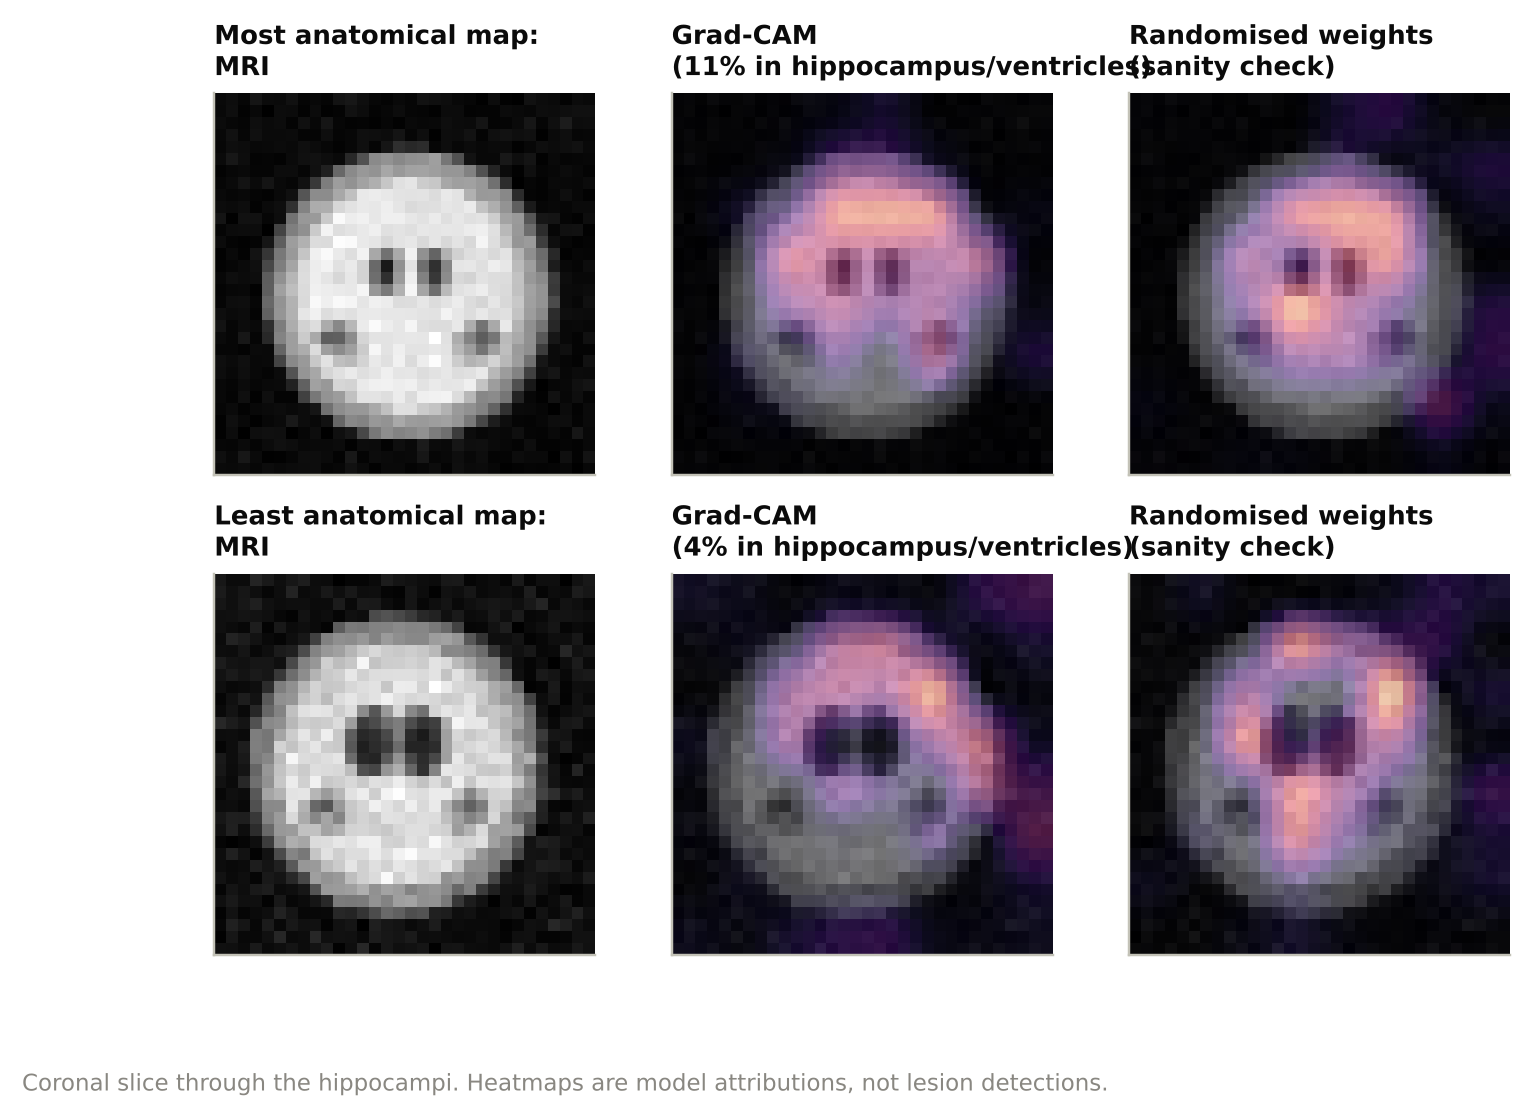
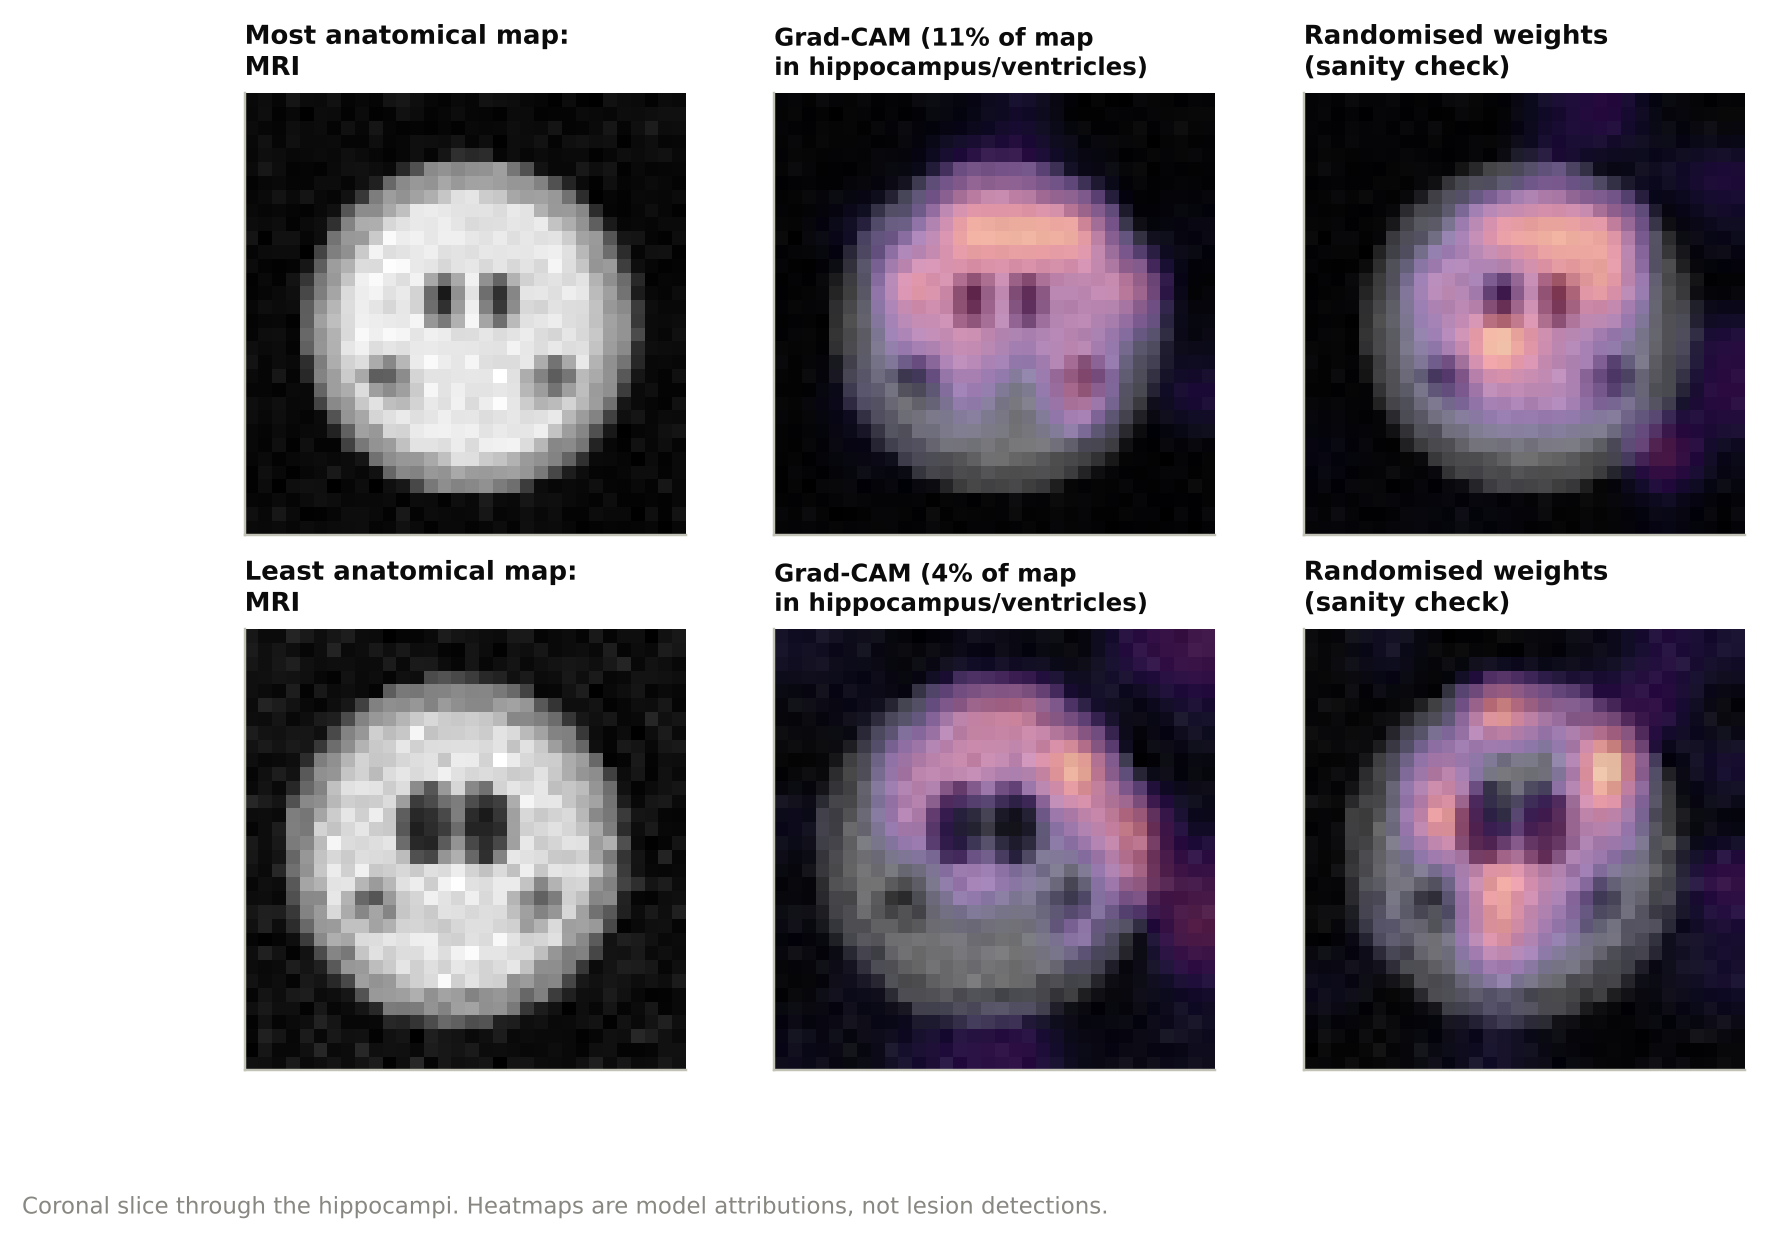
Explain Stage 2 and final results in the plain-English guide; update README layout; tidy Grad-CAM figure
Claude-Session: https://claude.ai/code/session_01LsYhwypG9oCMMA5mwPbUnf

diff --git a/scripts/05_make_figures.py b/scripts/05_make_figures.py
@@ -345,14 +345,14 @@ def fig_gradcam():
     d = np.load(p)
     sl = 15                                                   # coronal slice through hippocampi and ventricles
     titles = ["Most anatomical map", "Least anatomical map"]
-    fig, axes = plt.subplots(2, 3, figsize=(7.6, 5.2))
+    fig, axes = plt.subplots(2, 3, figsize=(8.8, 5.8))
     for r in range(2):
         vol = d["volumes"][r].astype(float)
         axes[r, 0].imshow(vol[:, sl, :].T, cmap="gray", origin="lower")
         axes[r, 0].set_title(f"{titles[r]}:\nMRI", fontsize=8.5)
         axes[r, 1].imshow(vol[:, sl, :].T, cmap="gray", origin="lower")
         axes[r, 1].imshow(d["cams"][r].astype(float)[:, sl, :].T, cmap="magma", alpha=0.5, origin="lower", vmin=0, vmax=1)
-        axes[r, 1].set_title(f"Grad-CAM\n({d['fraction'][r]:.0%} in hippocampus/ventricles)", fontsize=8.5)
+        axes[r, 1].set_title(f"Grad-CAM ({d['fraction'][r]:.0%} of map\nin hippocampus/ventricles)", fontsize=8)
         axes[r, 2].imshow(vol[:, sl, :].T, cmap="gray", origin="lower")
         axes[r, 2].imshow(d["random_cams"][r].astype(float)[:, sl, :].T, cmap="magma", alpha=0.5, origin="lower",
                           vmin=0, vmax=1)

diff --git a/docs/PROJECT_EXPLAINED.md b/docs/PROJECT_EXPLAINED.md
@@ -142,7 +142,49 @@ labelled "research prototype – not for diagnosis".
 
 ---
 
-## 4. Key terms in one line each
+## 4. Stage 2: making the results more trustworthy
+
+After the first (Stage 1) evaluation we wanted to improve the models **without
+cheating**. Re-testing on the same test set after changing things would
+overfit it, so Stage 2 works like this:
+
+1. **Pre-registration** (`configs/preregistration_stage2.yaml`): the hypotheses,
+   metrics and pass/fail rules were written down and pushed to GitHub *before*
+   any new data existed. The commit time proves we did not change the rules
+   after seeing results.
+2. **Fair tuning:** every neural model got the same budget, 8 settings each,
+   scored on the validation split only.
+3. **New ideas from the thesis:** consistency loss (Eq. 6.6), per-class
+   (Mondrian) conformal sets, a 3D CNN on brain images with Grad-CAM heatmaps,
+   a second task (predict the CDR-SB score at 24 months) and a time-to-dementia
+   C-index.
+4. **Two brand-new test cohorts**, never seen by any model:
+   *A* = same kind of patients; *B* = a "messy hospital" with many poor or missing
+   MRIs.
+
+## 5. Final results in plain words (simulated data)
+
+| Question | Answer |
+|---|---|
+| Does adding MRI beat clinical history alone? | No. All good models score about 0.90 AUROC; MRI adds almost nothing on top of 3 years of visits. |
+| Does the proposed model beat standard fusion? (H1) | Tied on cohort A. On the messy-hospital cohort B it is significantly better than early fusion (+0.007), but below the pre-set 0.02 "meaningful" bar, so H1 is officially not supported. |
+| Does it lose less when MRI is removed? (H2) | Not supported. |
+| Do the design ideas help? | Yes. Modality dropout, the consistency loss and the reliability gate each give small but significant gains on **both** new cohorts. |
+| Is it better than classical ML? | Yes. +0.023 to +0.026 AUROC over gradient boosting, significant on both cohorts. |
+| Are the probabilities honest? | Yes. ECE about 0.02 after temperature scaling. |
+| Does the uncertainty (conformal) work? | Only partly. Coverage is below 90% because the calibration group (91 people) happened to contain fewer late-MCI patients than the test groups. Reported as a limitation. |
+| Are explanations stable? | Feature explanations yes (Spearman 0.92 across seeds). Grad-CAM brain heatmaps no: they look much like heatmaps from a random network. |
+| Secondary outcomes | Best CDR-SB prediction error (0.88 points) and best C-index of all models. |
+
+**How to say it to judges:** "My reliability-aware model does not make fusion
+more accurate when the clinical history already carries the signal, but its
+training strategy makes fusion *safer*. At a site with bad MRI scans,
+ordinary fusion becomes worse than ignoring the MRI, while my model does not.
+Every claim was tested on new data under rules I fixed in advance."
+
+---
+
+## 6. Key terms in one line each
 
 * **AUROC** – probability that a random converter gets a higher risk score
   than a random non-converter.
@@ -164,7 +206,7 @@ labelled "research prototype – not for diagnosis".
 
 ---
 
-## 5. Likely judge questions and short answers
+## 7. Likely judge questions and short answers
 
 **Q: Why not use real patient data?**
 ADNI needs an approved data use agreement. The pipeline reads the official

diff --git a/README.md b/README.md
@@ -22,15 +22,19 @@ streamlit run dashboard/app.py
 | Path | What it contains |
 |---|---|
 | `configs/config.yaml` | every setting (horizon, splits, seeds, metrics) |
-| `src/mdp/simulate.py` | simulated cohort in ADNIMERGE format |
+| `configs/preregistration_stage2.yaml` | Stage 2 hypotheses and decision rules, committed before the external cohorts existed |
+| `src/mdp/simulate.py` | simulated cohort in ADNIMERGE format (development + external cohorts A and B) |
+| `src/mdp/imaging.py` | rendered 3D MRI volumes, 3D CNN, Grad-CAM |
 | `src/mdp/cohort.py` | index visits, 24-month label, MRI linkage, patient splits, leakage checks |
 | `src/mdp/features.py` | visit sequences, masks, time gaps, summary features |
 | `src/mdp/models.py` | GRU, MRI encoder, early / late / cross-attention / proposed fusion |
 | `src/mdp/train.py` | training loop, classical baselines |
 | `src/mdp/metrics.py` | AUROC, calibration, bootstrap, temperature scaling, conformal |
 | `src/mdp/explain.py` | Integrated Gradients, SHAP, stability measures |
-| `scripts/01..05_*.py` | the five pipeline steps |
-| `results/` | predictions, tables, figures, run records (generated) |
+| `scripts/01..06_*.py` | pipeline steps (data, cohort, training, 3D CNN, evaluation, figures, cards) |
+| `results/` | Stage 2 predictions, tables, figures, run records (generated) |
+| `results/stage1/` | Stage 1 locked-evaluation results, kept unchanged |
+| `docs/DATASET_CARD.md`, `docs/MODEL_CARD.md` | dataset and model documentation (generated) |
 | `dashboard/app.py` | Streamlit research dashboard |
 
 ## Running on real ADNI data
